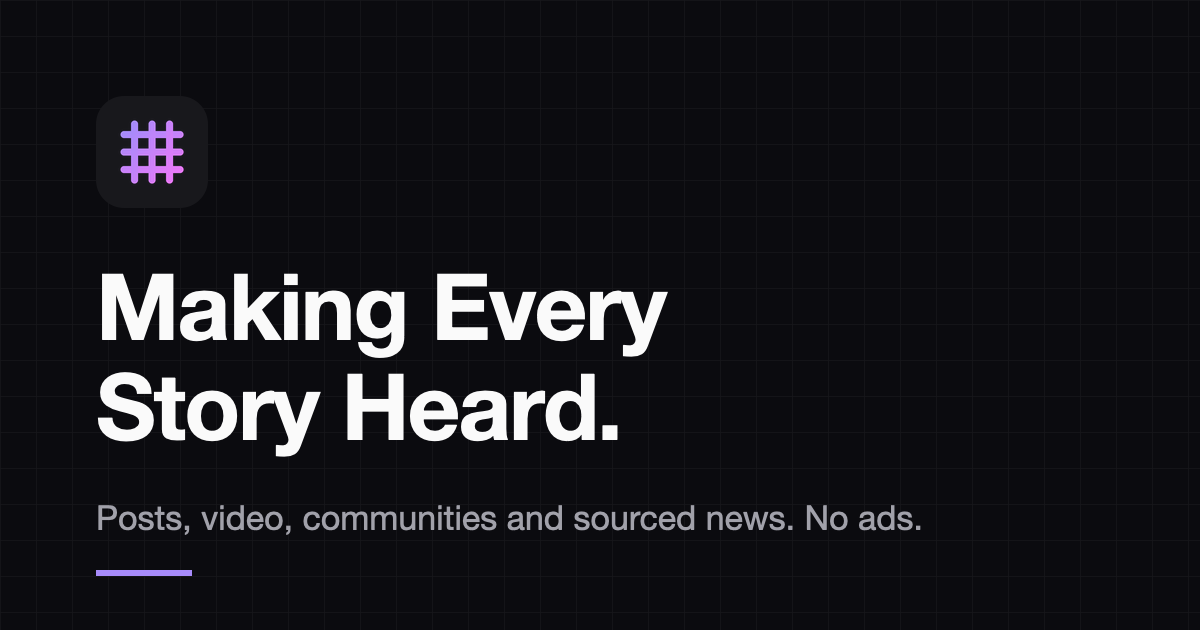
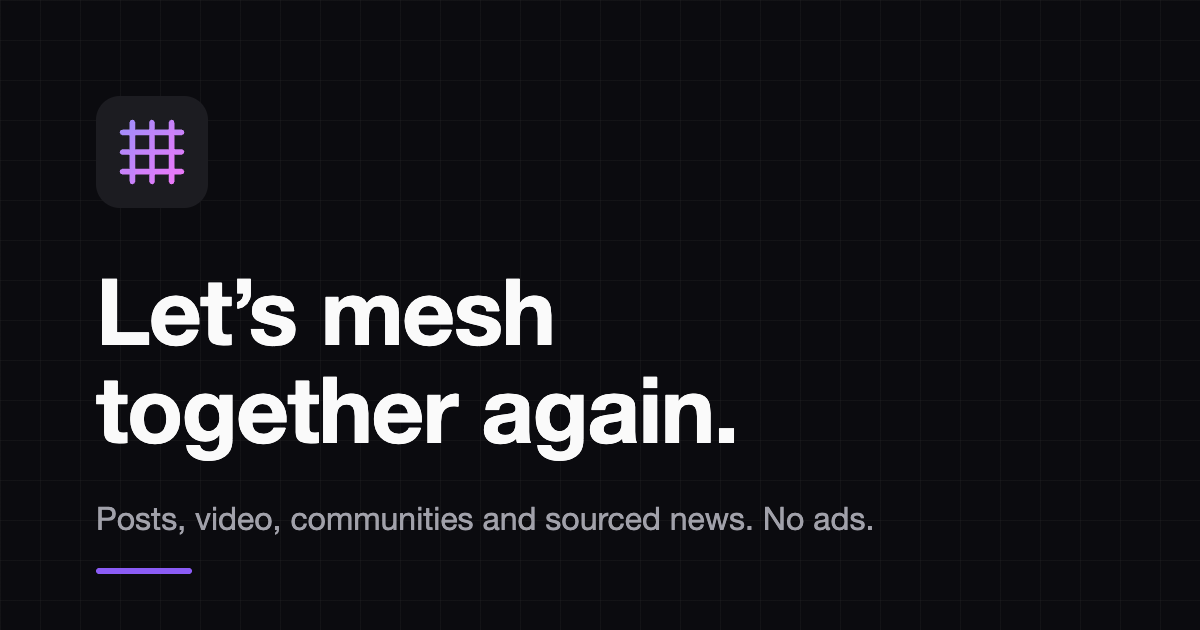
New slogan: Let's mesh together again; Making Every Story Heard moves to News
- Tab title, link previews, the pre-load page and sign-in use the new
  slogan; the link-preview image is regenerated from scripts/og-image.html
- Mesh News gets a masthead with its own slogan, Making Every Story Heard

diff --git a/index.html b/index.html
@@ -3,7 +3,7 @@
   <head>
     <meta charset="UTF-8" />
     <meta name="viewport" content="width=device-width, initial-scale=1.0, viewport-fit=cover" />
-    <title>Mesh: posts, video, communities and sourced news</title>
+    <title>Mesh: Let's mesh together again</title>
     <meta name="description" content="Mesh is a social network for posts, short and long video, communities and news that has to cite its sources. No ads, no data sold, no third-party trackers." />
     <link rel="canonical" href="https://mesh-a293c.web.app/" />
     <meta name="theme-color" content="#0b0b0f" />
@@ -16,13 +16,13 @@
     <!-- How a shared link looks in Messages, WhatsApp, Facebook, X and Slack. -->
     <meta property="og:type" content="website" />
     <meta property="og:site_name" content="Mesh" />
-    <meta property="og:title" content="Mesh: Making Every Story Heard" />
+    <meta property="og:title" content="Mesh: Let's mesh together again" />
     <meta property="og:description" content="Posts, short and long video, communities and news that has to cite its sources. No ads, no data sold." />
     <meta property="og:url" content="https://mesh-a293c.web.app/" />
     <meta property="og:image" content="https://mesh-a293c.web.app/og-image.png" />
     <meta property="og:image:width" content="1200" />
     <meta property="og:image:height" content="630" />
-    <meta property="og:image:alt" content="The Mesh logo and the words Making Every Story Heard." />
+    <meta property="og:image:alt" content="The Mesh logo and the words Let's mesh together again." />
     <meta property="og:locale" content="en_AU" />
     <meta name="twitter:card" content="summary_large_image" />
 
@@ -31,7 +31,7 @@
         "@context": "https://schema.org",
         "@type": "WebSite",
         "name": "Mesh",
-        "alternateName": "Making Every Story Heard",
+        "alternateName": "Let's mesh together again",
         "url": "https://mesh-a293c.web.app/",
         "inLanguage": "en-AU"
       }
@@ -43,7 +43,7 @@
     <div id="root">
       <main class="mx-auto flex min-h-dvh max-w-xl flex-col justify-center px-6 py-16">
         <p class="font-display text-title-2 font-extrabold">Mesh</p>
-        <h1 class="mt-6 font-display text-display font-extrabold leading-tight">Making Every Story Heard.</h1>
+        <h1 class="mt-6 font-display text-display font-extrabold leading-tight">Let's mesh together again.</h1>
         <p class="mt-4 text-body text-fg-muted">
           A social network for posts, short and long video, communities and news that has to cite its sources.
           No ads, no data sold, no third-party trackers.

diff --git a/scripts/og-image.html b/scripts/og-image.html
@@ -1,0 +1,57 @@
+<!doctype html>
+<!--
+  The link-preview image (public/og-image.png, 1200x630). After editing, regenerate with:
+  "/Applications/Google Chrome.app/Contents/MacOS/Google Chrome" --headless --hide-scrollbars \
+    --window-size=1200,630 --screenshot=public/og-image.png scripts/og-image.html
+-->
+<html lang="en-AU">
+<head>
+<meta charset="utf-8">
+<style>
+  html, body { margin: 0; width: 1200px; height: 630px; overflow: hidden; }
+  body {
+    background-color: #0b0b0f;
+    background-image:
+      linear-gradient(rgb(255 255 255 / 0.035) 1px, transparent 1px),
+      linear-gradient(90deg, rgb(255 255 255 / 0.035) 1px, transparent 1px);
+    background-size: 40px 40px;
+    font-family: "Helvetica Neue", Helvetica, Arial, sans-serif;
+    color: #fafafa;
+    position: relative;
+  }
+  .logo {
+    position: absolute; left: 96px; top: 96px; width: 112px; height: 112px;
+    border-radius: 24px; background: #1c1c21;
+    display: flex; align-items: center; justify-content: center;
+  }
+  h1 {
+    position: absolute; left: 96px; top: 262px; margin: 0;
+    font-size: 92px; line-height: 1.06; font-weight: 700; letter-spacing: -1.5px;
+  }
+  p {
+    position: absolute; left: 96px; top: 500px; margin: 0;
+    font-size: 32px; color: #a1a1aa;
+  }
+  .bar { position: absolute; left: 96px; top: 568px; width: 96px; height: 6px; border-radius: 3px; background: #8b5cf6; }
+</style>
+</head>
+<body>
+  <div class="logo">
+    <svg width="72" height="72" viewBox="10 10 44 44" aria-hidden="true">
+      <defs>
+        <linearGradient id="g" x1="0" y1="0" x2="1" y2="1">
+          <stop offset="0" stop-color="#a78bfa"/>
+          <stop offset="1" stop-color="#e879f9"/>
+        </linearGradient>
+      </defs>
+      <g stroke="url(#g)" stroke-width="3.5" stroke-linecap="round" fill="none">
+        <path d="M14 20h36M14 32h36M14 44h36"/>
+        <path d="M20 14v36M32 14v36M44 14v36"/>
+      </g>
+    </svg>
+  </div>
+  <h1>Let&rsquo;s mesh<br>together again.</h1>
+  <p>Posts, video, communities and sourced news. No ads.</p>
+  <div class="bar"></div>
+</body>
+</html>

diff --git a/src/components/AuthPage.jsx b/src/components/AuthPage.jsx
@@ -434,7 +434,7 @@ function Shell({ finishing = false, children }) {
         <div className="relative max-w-md px-12">
           <LogoMark size={56} />
           <p className="mt-8 font-display text-[3rem] font-extrabold leading-[1.05] tracking-tight">
-            Making Every<br />Story Heard.
+            Let&rsquo;s mesh<br />together again.
           </p>
           <p className="mt-6 text-body text-fg-muted">
             Posts, short and long video, communities and news that has to cite its sources, in one place.
@@ -457,7 +457,7 @@ function Shell({ finishing = false, children }) {
           <div className="mb-8 flex flex-col items-center text-center lg:hidden">
             <LogoMark size={52} />
             <h1 className="mt-3 font-display text-display font-extrabold tracking-tight">Mesh</h1>
-            <p className="mt-1 text-callout text-fg-muted">Making Every Story Heard</p>
+            <p className="mt-1 text-callout text-fg-muted">Let&rsquo;s mesh together again</p>
           </div>
           <h1 className="sr-only lg:not-sr-only lg:hidden">Mesh</h1>
           {children}

diff --git a/src/components/news/NewsHome.jsx b/src/components/news/NewsHome.jsx
@@ -52,6 +52,11 @@ export function NewsHome() {
 
       <div data-scroll className="min-h-0 flex-1 overflow-y-auto">
         <div className="mx-auto max-w-[760px] px-4 pb-16 pt-4 md:px-6">
+          {/* The masthead: News's own slogan, not the app's. */}
+          <div className="mb-4 border-b border-line pb-3">
+            <p className="font-display text-title-2 font-extrabold tracking-tight">Mesh News</p>
+            <p className="text-callout text-fg-muted">Making Every Story Heard.</p>
+          </div>
           {liveTopics.length > 1 && (
             <div role="radiogroup" aria-label="News topics" className="-mx-4 mb-4 flex gap-2 overflow-x-auto px-4 no-scrollbar md:mx-0 md:px-0">
               {[{ id: "all", label: "Top stories" }, ...liveTopics].map((t) => {
